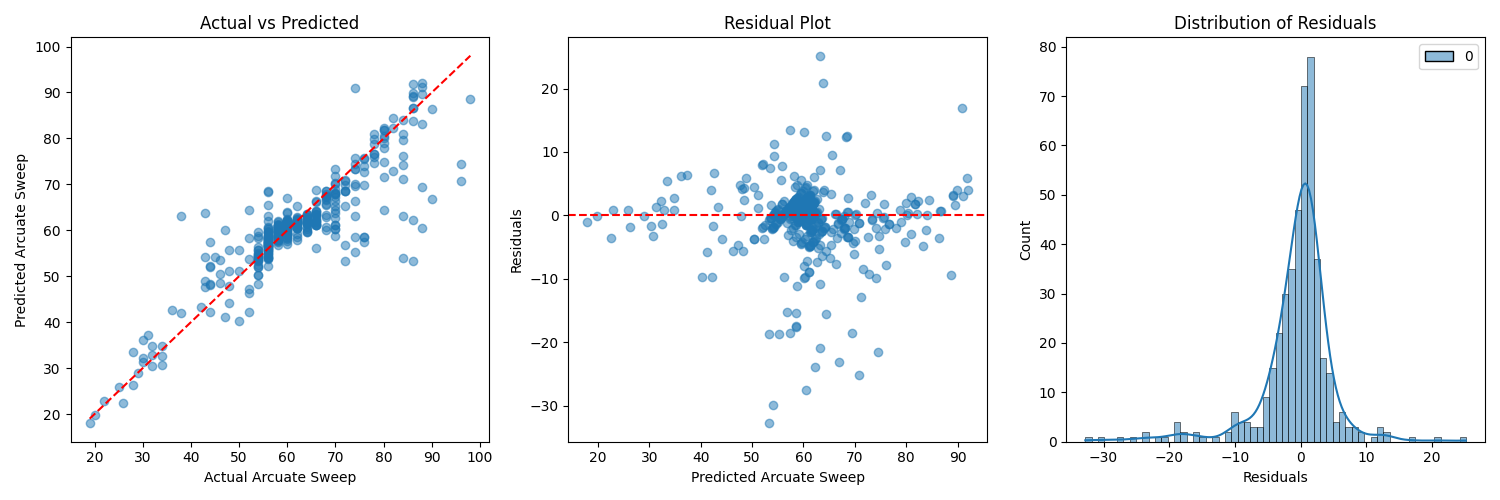
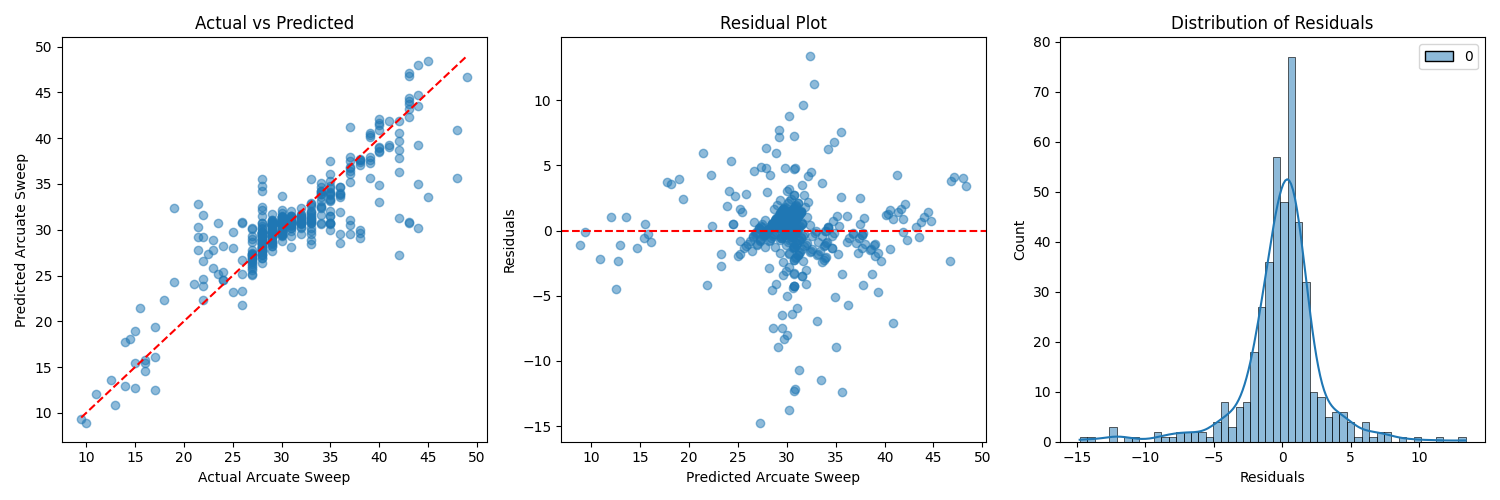
new features constrained region more sigmoid functions

diff --git a/analyze_model.py b/analyze_model.py
@@ -45,13 +45,12 @@ def analyze_model_performance():
     df = pd.read_csv('datacombo.csv')
     
     # Prepare features as in final_model.py
-    target = ['Arcuate_Sweep_Total']
+    target = ['Arcuate_Sweep_Half']
     y = df[target]
-    x = df['treated_astig'].to_numpy()
+    x = df['treated_astig_half'].to_numpy()
     
     other_features = [
-        'Age', 'Steep_axis_term', 'type', 'MeanK_IOLMaster', 
-        'Treatment_astigmatism', 'WTW_IOLMaster'
+        'Age', 'Steep_axis_term', 'MeanK_IOLMaster', 'Treatment_astigmatism_half', 'WTW_IOLMaster'
     ]
     
     # Handle NaN values
@@ -64,12 +63,12 @@ def analyze_model_performance():
     monotonic_features_dict = {
         'constant': np.ones_like(x),
         'linear': x,
-        'quadratic': x**2,
-        'cubic': x**3,
-        'quartic': x**4,
+        'logistic1': 1 / (1 + np.exp(-(x+1))),
+        'logistic2': 1 / (1 + np.exp(-(x+0.5))),
+        'logistic3': 1 / (1 + np.exp(-x)),
         'logarithmic': np.log(x - x.min() + 1),
-        'exponential': np.exp(x),
-        'logistic': 1 / (1 + np.exp(-(x-1)))
+        'logistic4': 1 / (1 + np.exp(-(x-0.5))),
+        'logistic5': 1 / (1 + np.exp(-(x-1)))
     }
     
     X_monotonic = pd.DataFrame(monotonic_features_dict)
@@ -82,7 +81,7 @@ def analyze_model_performance():
     label_encoder = components['label_encoder']
     
     # Transform and scale features
-    X_other['type'] = label_encoder.transform(X_other['type'])
+    # X_other['type'] = label_encoder.transform(X_other['type'])
     X_other_scaled = pd.DataFrame(
         other_scaler.transform(X_other),
         columns=X_other.columns
@@ -156,9 +155,9 @@ def analyze_feature_importance(model, data_sample):
     print("\nFeature Analysis:")
     print("-----------------")
     
-    # Feature names for reference
-    monotonic_features = ['Constant', 'Linear', 'Quadratic', 'Cubic', 
-                         'Quartic', 'Logarithmic', 'Exponential', 'Logistic']
+    # Feature names for reference - updated to match monotonic_features_dict
+    monotonic_features = ['Constant', 'Linear', 'Logistic1', 'Logistic2', 
+                         'Logistic3', 'Logarithmic', 'Logistic4', 'Logistic5']
     
     # Get weights from the model for this sample
     with torch.no_grad():
@@ -185,14 +184,88 @@ def analyze_feature_importance(model, data_sample):
         percentage = (abs(contribution) / total_contribution) * 100
         print(f"{feature:12} {percentage:6.2f}%")
 
+def plot_treated_astig_vs_sweep():
+    """
+    Plot treated_astig against Arcuate_Sweep
+    """
+    # Load data
+    df = pd.read_csv('datacombo.csv')
+    
+    # Create plot
+    plt.figure(figsize=(10, 6))
+    plt.scatter(df['treated_astig_half'], df['Arcuate_Sweep_Half'], alpha=0.5)
+    plt.xlabel('Treated Astigmatism')
+    plt.ylabel('Arcuate Sweep')
+    plt.title('Treated Astigmatism vs Arcuate Sweep')
+    
+    # Add trend line
+    z = np.polyfit(df['treated_astig_half'], df['Arcuate_Sweep_Half'], 1)
+    p = np.poly1d(z)
+    plt.plot(df['treated_astig_half'], p(df['treated_astig_half']), "r--", alpha=0.8)
+    
+    # Set both axes to start at 0
+    plt.xlim(left=0)
+    plt.ylim(bottom=0)
+    
+    # Add grid
+    plt.grid(True, alpha=0.3)
+    
+    # Save plot
+    plt.savefig('treated_astig_vs_sweep.png')
+    plt.close()
+
+def plot_feature_importance(model, data_sample):
+    """
+    Create a bar plot showing the relative importance of monotonic features
+    """
+    # Feature names
+    monotonic_features = ['Constant', 'Linear', 'Logistic1', 'Logistic2', 
+                         'Logistic3', 'Logarithmic', 'Logistic4', 'Logistic5']
+    
+    # Get weights and contributions
+    with torch.no_grad():
+        weights = model.unconstrained_path(data_sample['x_other'])
+    x_monotonic = data_sample['x_monotonic']
+    contributions = weights * x_monotonic
+    contributions = contributions.numpy()[0]
+    
+    # Calculate absolute percentage contributions
+    total_contribution = abs(contributions).sum()
+    percentages = [(abs(contribution) / total_contribution) * 100 for contribution in contributions]
+    
+    # Create bar plot
+    plt.figure(figsize=(12, 6))
+    bars = plt.bar(monotonic_features, percentages)
+    
+    # Customize plot
+    plt.title('Relative Importance of Monotonic Features')
+    plt.xlabel('Features')
+    plt.ylabel('Relative Importance (%)')
+    plt.xticks(rotation=45, ha='right')
+    
+    # Add percentage labels on top of bars
+    for bar in bars:
+        height = bar.get_height()
+        plt.text(bar.get_x() + bar.get_width()/2., height,
+                f'{height:.1f}%',
+                ha='center', va='bottom')
+    
+    # Add grid and adjust layout
+    plt.grid(True, alpha=0.3, axis='y')
+    plt.tight_layout()
+    
+    # Save plot
+    plt.savefig('feature_importance.png')
+    plt.close()
+
 if __name__ == "__main__":
     # First run analyze_model_performance which creates the model
     rmse, mae, r2 = analyze_model_performance()
     
     # Define other_features list
     other_features = [
-        'Age', 'Steep_axis_term', 'type', 'MeanK_IOLMaster', 
-        'Treatment_astigmatism', 'WTW_IOLMaster'
+        'Age', 'Steep_axis_term', 'MeanK_IOLMaster', 
+        'Treatment_astigmatism_half', 'WTW_IOLMaster'
     ]
     
     # Load model and components
@@ -212,9 +285,15 @@ if __name__ == "__main__":
     # Add feature analysis
     print("\nAnalyzing sample prediction...")
     sample_data = {
-        'x_other': torch.FloatTensor(other_scaler.transform([[65, 0.5, 0, 44.0, 1.0, 12.0]])),
+        'x_other': torch.FloatTensor(other_scaler.transform([[65, 0.5, 44.0, 1.0, 12.0]])),
         'x_monotonic': torch.FloatTensor(monotonic_scaler.transform([
             [1.0, 1.0, 1.0, 1.0, 1.0, 1.0, 1.0, 1.0]  # Include logistic
         ]))
     }
     analyze_feature_importance(model, sample_data) 
+    
+    # Create treated_astig vs sweep plot
+    plot_treated_astig_vs_sweep()
+    
+    # Create feature importance plot
+    plot_feature_importance(model, sample_data)

diff --git a/predict.py b/predict.py
@@ -3,8 +3,8 @@ import pandas as pd
 import numpy as np
 import joblib
 
-def predict_arcuate_sweep(age, steep_axis_term, type_val, meank_iolmaster, 
-                         treatment_astigmatism, wtw_iolmaster, treated_astig, 
+def predict_arcuate_sweep(age, steep_axis_term, meank_iolmaster, 
+                         treatment_astigmatism_half, wtw_iolmaster, treated_astig_half, 
                          weights_path='model_weights.pth',
                          components_path='model_components.joblib'):
     
@@ -13,7 +13,7 @@ def predict_arcuate_sweep(age, steep_axis_term, type_val, meank_iolmaster,
     
     # Load other components
     components = joblib.load(components_path)
-    
+    print(components)
     other_scaler = components['other_scaler']
     monotonic_scaler = components['monotonic_scaler']
     target_scaler = components['target_scaler']
@@ -23,30 +23,29 @@ def predict_arcuate_sweep(age, steep_axis_term, type_val, meank_iolmaster,
     if not all([model_state_dict, other_scaler, monotonic_scaler, target_scaler, label_encoder]):
         raise ValueError("Missing components in the model checkpoint")
     
-    # Create DataFrames for features
+    # Create DataFrames for features with column names
     other_data = pd.DataFrame({
         'Age': [age],
         'Steep_axis_term': [steep_axis_term],
-        'type': [type_val],
         'MeanK_IOLMaster': [meank_iolmaster],
-        'Treatment_astigmatism': [treatment_astigmatism],
+        'Treatment_astigmatism_half': [treatment_astigmatism_half],
         'WTW_IOLMaster': [wtw_iolmaster]
     })
     
     # Create monotonic features
     x_monotonic = np.array([[
-        1.0,  # constant
-        treated_astig,  # linear
-        treated_astig**2,  # quadratic
-        treated_astig**3,  # cubic
-        treated_astig**4,  # quartic
-        np.log(treated_astig - min(treated_astig, 0) + 1),  # logarithmic
-        np.exp(treated_astig),  # exponential
-        1 / (1 + np.exp(-(treated_astig-1)))  # logistic
+            1.0,  # constant
+            treated_astig_half,  # lin  ear
+        1 / (1 + np.exp(-(treated_astig_half+1))),  # logistic1
+        1 / (1 + np.exp(-(treated_astig_half+0.5))),  # logistic2
+        1 / (1 + np.exp(-treated_astig_half)),  # logistic3
+        np.log(treated_astig_half - min(treated_astig_half, 0) + 1),  # logarithmic
+        1 / (1 + np.exp(-(treated_astig_half-0.5))),  # logistic4
+        1 / (1 + np.exp(-(treated_astig_half-1)))  # logistic5
     ]])
     
     # Transform type using label encoder
-    other_data['type'] = label_encoder.transform([other_data['type'].iloc[0]])
+    # other_data['type'] = label_encoder.transform([other_data['type'].iloc[0]])
     
     # Scale the features while maintaining DataFrame structure
     other_scaled = pd.DataFrame(
@@ -57,7 +56,8 @@ def predict_arcuate_sweep(age, steep_axis_term, type_val, meank_iolmaster,
     
     monotonic_scaled = pd.DataFrame(
         monotonic_scaler.transform(x_monotonic),
-        columns=['constant', 'linear', 'quadratic', 'cubic', 'quartic', 'logarithmic', 'exponential', 'logistic'],
+        columns=['constant', 'linear', 'logistic1', 'logistic2', 'logistic3', 
+                'logarithmic', 'logistic4', 'logistic5'],
         index=[0]
     )
     
@@ -85,11 +85,11 @@ if __name__ == "__main__":
             self.unconstrained_path = torch.nn.Sequential(
                 torch.nn.Linear(other_input_dim, 24),
                 torch.nn.ReLU(),
-                torch.nn.Linear(24, 7),
+                torch.nn.Linear(24, 8),
                 torch.nn.ReLU()
             )
             
-            # Initialize weights with smaller values
+            # Initialize weights
             for m in self.unconstrained_path.modules():
                 if isinstance(m, torch.nn.Linear):
                     torch.nn.init.xavier_uniform_(m.weight, gain=0.1)
@@ -105,17 +105,13 @@ if __name__ == "__main__":
     try:
         # Get treated_astig value first
         treated_astig_val = 0.5  # default value
-        if 'treated_astig' in locals() or 'treated_astig' in globals():
-            treated_astig_val = treated_astig
-            
         prediction = predict_arcuate_sweep(
             age=65,
             steep_axis_term=0.5,
-            type_val='paired',
             meank_iolmaster=44.0,
-            treatment_astigmatism=treated_astig_val,  # automatically matches treated_astig
+            treatment_astigmatism_half=treated_astig_val,  # automatically matches treated_astig
             wtw_iolmaster=12.0,
-            treated_astig=treated_astig_val
+            treated_astig_half=treated_astig_val
         )
         print(f"Predicted Arcuate Sweep: {prediction:.2f}")
     except Exception as e:

diff --git a/draft.py b/draft.py
@@ -50,13 +50,16 @@ class SimpleMonotonicNN(nn.Module):
 # load dataset
 df = pd.read_csv('datacombo.csv')
 
+# Filter out 'single' type entries
+df = df[df['type'] != 'single']
+
 # Setting up features and target
 target = ['Arcuate_Sweep_Half']
 y = df[target]  # Define y from the target column
 x = df['treated_astig_half'].to_numpy()
 
 other_features = [
-    'Age', 'Steep_axis_term', 'type', 'MeanK_IOLMaster', 'Treatment_astigmatism_half', 'WTW_IOLMaster'
+    'Age', 'Steep_axis_term', 'MeanK_IOLMaster', 'Treatment_astigmatism_half', 'WTW_IOLMaster'
 ]
 
 # Handle NaN values
@@ -69,18 +72,18 @@ df['MeanK_IOLMaster'] = df['MeanK_IOLMaster'].fillna(meank_median)
 monotonic_features_dict = {
     'constant': np.ones_like(x),
     'linear': x,
-    'quadratic': x**2,
-    'cubic': x**3,
-    'quartic': x**4,
+    'logistic1': 1 / (1 + np.exp(-(x+1))),
+    'logistic2': 1 / (1 + np.exp(-(x+0.5))),
+    'logistic3': 1 / (1 + np.exp(-x)),
     'logarithmic': np.log(x - x.min() + 1),
-    'exponential': np.exp(x),
-    'logistic': 1 / (1 + np.exp(-(x-1)))
+    'logistic4': 1 / (1 + np.exp(-(x-0.5))),
+    'logistic5': 1 / (1 + np.exp(-(x-1)))
 }
 
 # Convert to DataFrame and keep as DataFrame
 X_monotonic = pd.DataFrame(monotonic_features_dict)
 X_other = df[other_features].copy()
-X_other['type'] = le.fit_transform(X_other['type'])
+# X_other['type'] = le.fit_transform(X_other['type'])
 
 # Scale while maintaining DataFrame structure
 X_other_scaled = pd.DataFrame(

diff --git a/final_model.py b/final_model.py
@@ -38,13 +38,12 @@ class SimpleMonotonicNN(nn.Module):
 df = pd.read_csv('datacombo.csv')
 
 # Setting up features and target
-target = ['Arcuate_Sweep_Total']
+target = ['Arcuate_Sweep_Half']
 y = df[target]
-x = df['treated_astig'].to_numpy()
+x = df['treated_astig_half'].to_numpy()
 
 other_features = [
-    'Age', 'Steep_axis_term', 'type', 'MeanK_IOLMaster', 
-    'Treatment_astigmatism', 'WTW_IOLMaster'
+    'Age', 'Steep_axis_term', 'MeanK_IOLMaster', 'Treatment_astigmatism_half', 'WTW_IOLMaster'
 ]
 
 # Handle NaN values
@@ -57,18 +56,18 @@ df['MeanK_IOLMaster'] = df['MeanK_IOLMaster'].fillna(meank_median)
 monotonic_features_dict = {
     'constant': np.ones_like(x),
     'linear': x,
-    'quadratic': x**2,
-    'cubic': x**3,
-    'quartic': x**4,
+    'logistic1': 1 / (1 + np.exp(-(x+1))),
+    'logistic2': 1 / (1 + np.exp(-(x+0.5))),
+    'logistic3': 1 / (1 + np.exp(-x)),
     'logarithmic': np.log(x - x.min() + 1),
-    'exponential': np.exp(x),
-    'logistic': 1 / (1 + np.exp(-(x-1)))
+    'logistic4': 1 / (1 + np.exp(-(x-0.5))),
+    'logistic5': 1 / (1 + np.exp(-(x-1)))
 }
 
 # Convert to DataFrame and keep as DataFrame
 X_monotonic = pd.DataFrame(monotonic_features_dict)
 X_other = df[other_features].copy()
-X_other['type'] = le.fit_transform(X_other['type'])
+# X_other['type'] = le.fit_transform(X_other['type'])
 
 # Scale while maintaining DataFrame structure
 X_other_scaled = pd.DataFrame(
